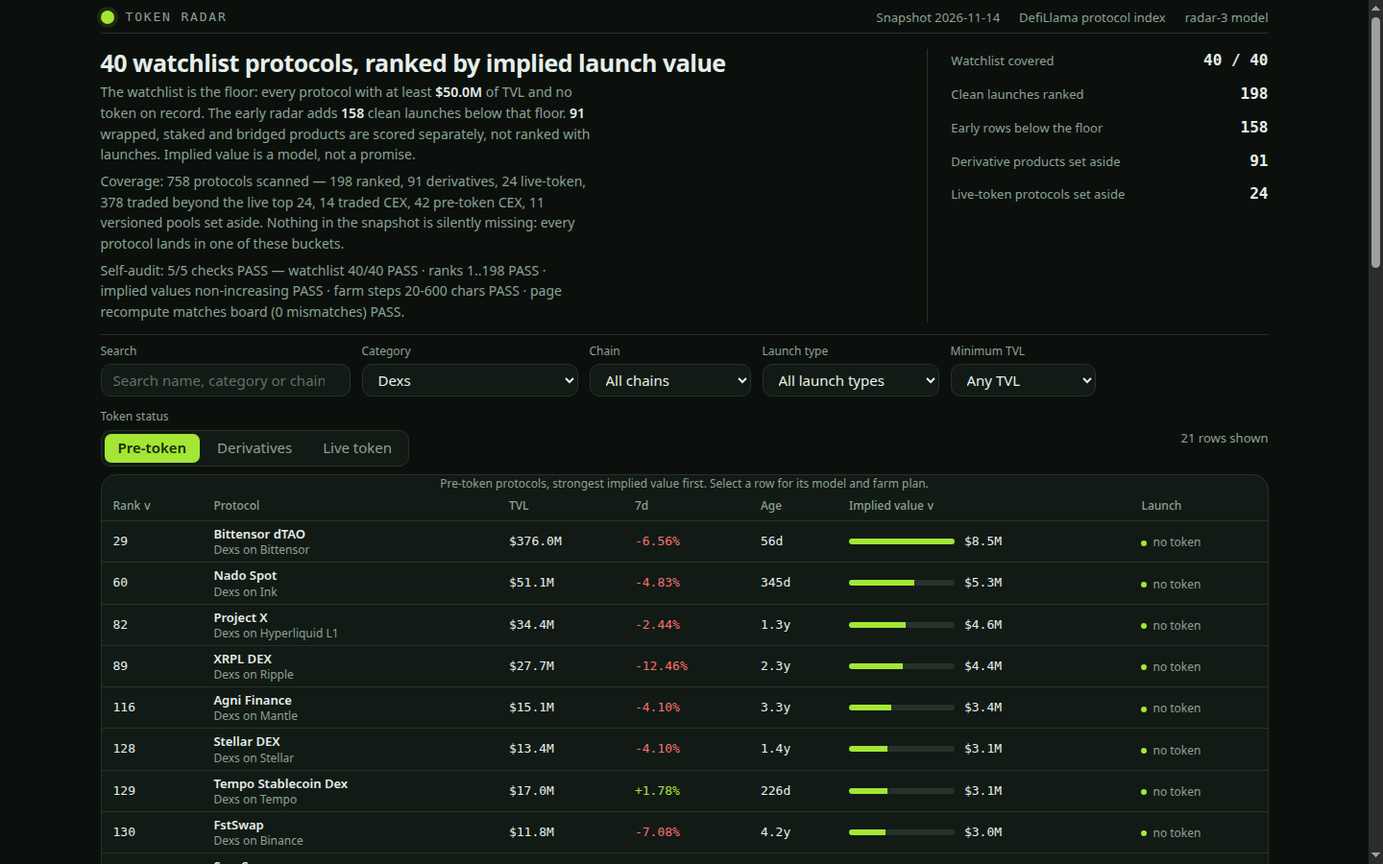
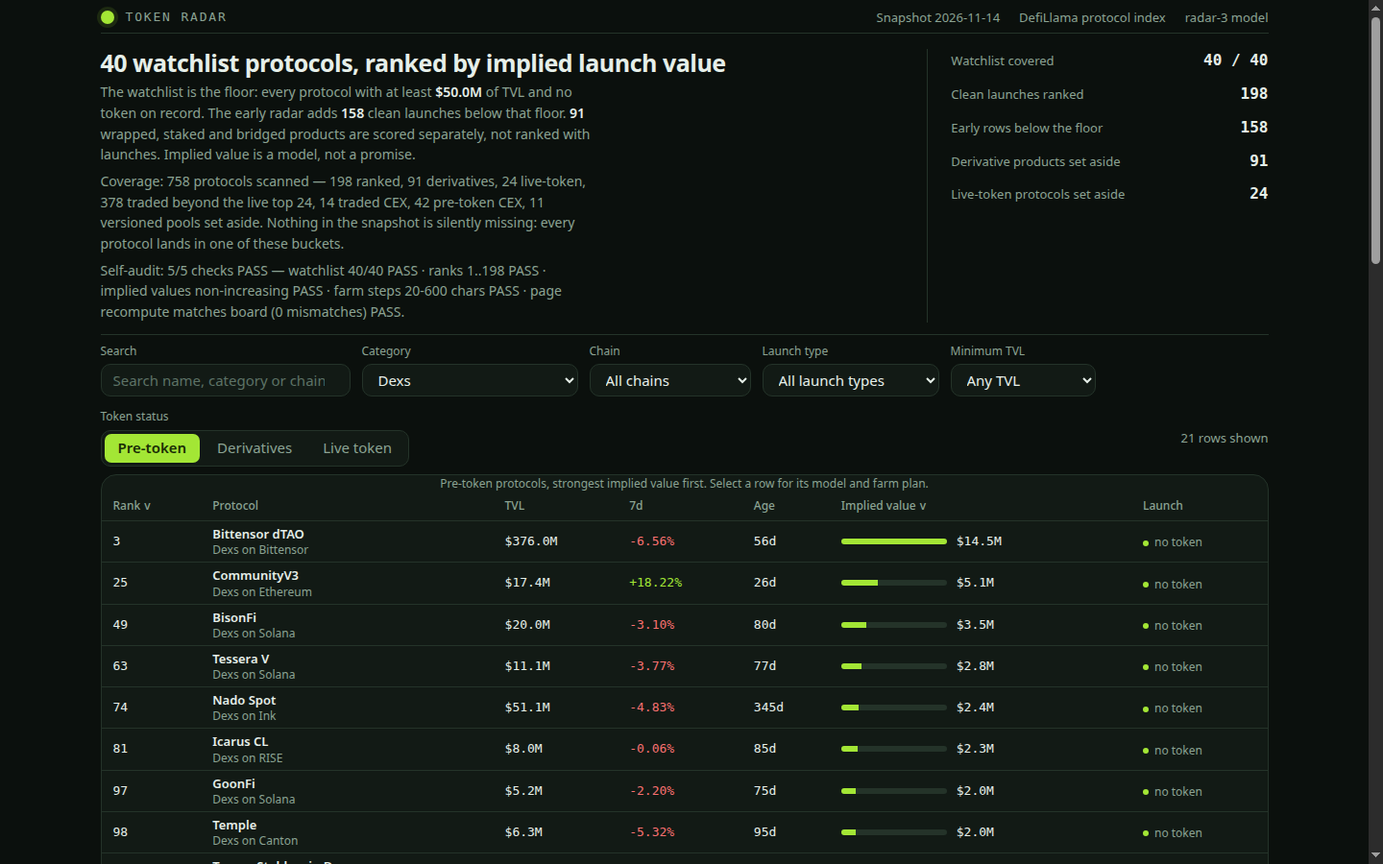
Round 4 fix: hazard-style launch odds (12-month forward hazard)
Replace the cumulative cohort share with the 12-month forward hazard
(F(age+365d)-F(age))/(1-F(age)) read off the same logistic cohort curve,
so token odds now FALL with age (1y 0.19, 2y 0.14, 4y 0.09) instead of
rising (0.44/0.55/0.66). Launch-value OLS unchanged. Odds validated
held-out by 5-fold Brier 0.2284 vs 0.25 baseline (a time split by listing
date is not a fair test for an age-only model). Dashboard panels, formula,
detail drawer and sandbox updated; screenshots re-captured.

diff --git a/dashboard/app.js b/dashboard/app.js
@@ -7,11 +7,12 @@
 // renders these same numbers from data.js, and this comment states them so they read in
 // source as well as on screen:
 //   launch  = 10 ^ (4.330 + 0.432 x log10(TVL) - 0.227 x log10(age) + 0.018 x extra chains)
-//   odds    = 1 / (1 + exp(-(-3.936 + 1.447 x log10(age))))  — 1y 0.44, 2y 0.55, 4y 0.66
+//   odds    = (F(age + 365d) - F(age)) / (1 - F(age)), F = 1 / (1 + exp(-(-3.936 + 1.447 x log10(age))))
+//             — the 12-month forward hazard: 1y 0.19, 2y 0.14, 4y 0.09 (falls with age)
 //   implied = round(launch x odds x derivative); derivative discount 0.85, unknown age 365d
 //   Fit on 95 traded-token protocols: R² 0.18, leave-one-out error x4.54,
 //   walk-forward error x10.27 (train 66 oldest listings, test 29 newest).
-//   Odds fitted on 645 protocols, 327 with a token.
+//   Odds fitted on 645 protocols, 327 with a token; 5-fold Brier 0.23 vs 0.25 baseline.
 //   Seven-day growth was fitted (coefficient about -0.01, not significant) and constrained
 //   to zero: the model neither rewards nor punishes a single week's move.
 (function () {
@@ -61,14 +62,25 @@
   // snapshot figures and checks the number board.json carries, so the page's code and the
   // board's data are visibly the same arithmetic. The sandbox runs this with moved constants.
   // The fitted launch value is 10^(b0 + b1*log10(TVL) + b3*log10(age) + b4*extra chains),
-  // times the token odds from the fitted logistic curve on log10(age); growth was fitted
-  // and dropped (its effect is indistinguishable from zero), so it contributes nothing.
+  // times the 12-month forward hazard read off the fitted cohort curve: (F(age + 365d) -
+  // F(age)) / (1 - F(age)), where F is the logistic share of protocols of that age that
+  // record a token. Growth was fitted and dropped (its effect is indistinguishable from
+  // zero), so it contributes nothing.
+  function cohortShare(age, intercept, slope) {
+    return 1 / (1 + Math.exp(-(intercept + slope * Math.log10(Math.max(1, age)))));
+  }
+  function hazardOf(age, intercept, slope) {
+    var a = Math.max(1, age);
+    var fNow = cohortShare(a, intercept, slope);
+    var fNext = cohortShare(a + 365, intercept, slope);
+    return (fNext - fNow) / (1 - fNow);
+  }
   function impliedOf(row, fit) {
     var age = row.age_days === null || row.age_days === undefined ? fit.unknown_age_days : row.age_days;
     var ageFit = Math.min(Math.max(age, 1), 3650);
     var extra = Math.min(Math.max((row.chains || []).length - 1, 0), 10);
     var launch = Math.pow(10, fit.launch_intercept + fit.launch_tvl * Math.log10(row.tvl_usd) + fit.launch_age * Math.log10(ageFit) + fit.launch_chains * extra);
-    var odds = 1 / (1 + Math.exp(-(fit.odds_intercept + fit.odds_age * Math.log10(ageFit))));
+    var odds = hazardOf(ageFit, fit.odds_intercept, fit.odds_age);
     var derivMult = row.launch_type === 'derivative' ? fit.derivative_discount : 1;
     return Math.max(1, Math.round(launch * odds * derivMult));
   }
@@ -76,7 +88,7 @@
   function oddsOf(row, fit) {
     var age = row.age_days === null || row.age_days === undefined ? fit.unknown_age_days : row.age_days;
     var ageFit = Math.min(Math.max(age, 1), 3650);
-    return 1 / (1 + Math.exp(-(fit.odds_intercept + fit.odds_age * Math.log10(ageFit))));
+    return hazardOf(ageFit, fit.odds_intercept, fit.odds_age);
   }
 
   function launchOf(row, fit) {
@@ -387,13 +399,13 @@
     var f = DATA.fit;
     return el('section', { class: 'panel section' },
       el('h2', { text: 'How implied value is computed' }),
-      el('p', { class: 'note', text: 'Every row is scored by one model FIT to this snapshot, not by hand-picked constants: the launch value is an OLS fit of log10(market cap) on the snapshot\u2019s traded-token protocols, and the token odds are a logistic fit of \u201Crecords a token\u201D on age. No protocol name is special-cased, and no row is hand-picked; live-token protocols are shown at market value, never ranked.' }),
+      el('p', { class: 'note', text: 'Every row is scored by one model FIT to this snapshot, not by hand-picked constants: the launch value is an OLS fit of log10(market cap) on the snapshot\u2019s traded-token protocols, and the token odds are the 12-month forward hazard read off a logistic fit of \u201Crecords a token\u201D on age. No protocol name is special-cased, and no row is hand-picked; live-token protocols are shown at market value, never ranked.' }),
       el('div', { class: 'formula' },
         el('b', { text: 'launch = 10 ^ ( ' }),
         f.launch_intercept.toFixed(3) + ' + ' + f.launch_tvl.toFixed(3) + ' x log10(TVL) + ' + f.launch_age.toFixed(3) + ' x log10(age) + ' + f.launch_chains.toFixed(3) + ' x extra chains',
         el('b', { text: ' )' }),
         el('br'),
-        el('b', { text: 'odds = 1 / (1 + exp(-( ' }),
+        el('b', { text: 'odds = ( F(age + 365d) - F(age) ) / ( 1 - F(age) ),  F(age) = 1 / (1 + exp(-( ' }),
         f.odds_intercept.toFixed(3) + ' + ' + f.odds_age.toFixed(3) + ' x log10(age)',
         el('b', { text: ' )))' }),
         el('br'),
@@ -402,8 +414,8 @@
       el('h2', { text: 'Model validation — as fitted, not as proof' }),
       el('p', { class: 'note', text: 'Launch fit: ' + f.fit_n + ' traded-token protocols carry the label (a positive market cap, a listing date and a reported seven-day growth figure; 15 zero-value tokens and the rest without a usable label are excluded). R\u00B2 = ' + f.fit_r2 + ' on the log10 scale. Leave-one-out error x' + f.fit_loo_factor + ' (one refit per protocol, tested on the held-out row). Walk-forward error x' + f.fit_wf_factor + ' (fit on the oldest ' + f.fit_wf_train + ' by listing date, tested on the newest ' + f.fit_wf_test + '). TVL is the only signal with real bite; the fit is shown because it is fitted, not because it is precise.' }),
       el('p', { class: 'note', text: 'Seven-day growth was fitted and dropped: its coefficient is indistinguishable from zero (t = -1.3) and flips sign across sample splits, so the model sets it to zero instead of letting sampling noise punish growing protocols. Growth is still shown for every row, and it still drives the farm plan\u2019s stop rule.' }),
-      el('p', { class: 'note', text: 'Token odds are a cohort rate, not a promise: the share of protocols of that age that record a token, fitted by logistic regression on ' + f.odds_n + ' protocols with a known listing date (' + f.odds_with_token + ' of them record a token). Odds are ' + Math.round(f.odds_1y * 100) + '% at one year, ' + Math.round(f.odds_2y * 100) + '% at two years and ' + Math.round(f.odds_4y * 100) + '% at four years: older cohorts list more often, so an old protocol with no token sits in a cohort where listing is common.' }),
-      el('p', { class: 'note', text: 'Age pulls both ways: older listed tokens are worth less at the same TVL (the fitted age coefficient is ' + f.launch_age.toFixed(3) + '), but older cohorts list tokens more often. The net effect is shown per row in its detail view. A wrapped, staked or bridged product is flagged as a derivative and discounted to ' + f.derivative_discount + ', because its launch is its underlying\u2019s, not its own; derivatives are scored the same way and listed separately, never ranked with clean launches. Age is the time since first listing; an unlisted age uses ' + f.unknown_age_days + ' days.' }),
+      el('p', { class: 'note', text: 'Token odds are a 12-month forward hazard, not a promise: among protocols still tokenless at a given age, the share the fitted cohort curve says lists within the next 12 months. The curve is a logistic fit of \u201Crecords a token\u201D on age over ' + f.odds_n + ' protocols with a known listing date (' + f.odds_with_token + ' of them record a token). Odds are ' + Math.round(f.odds_1y * 100) + '% at one year, ' + Math.round(f.odds_2y * 100) + '% at two years and ' + Math.round(f.odds_4y * 100) + '% at four years: the longer a protocol sits tokenless, the less likely it is to list soon. Held-out check: 5-fold Brier ' + f.odds_brier_kfold + ' against a ' + f.odds_brier_baseline + ' baseline (predicting the overall token rate) \u2014 a real but modest signal.' }),
+      el('p', { class: 'note', text: 'Age pulls the same way twice: older listed tokens are worth less at the same TVL (the fitted age coefficient is ' + f.launch_age.toFixed(3) + '), and older tokenless protocols are less likely to list soon (the hazard falls with age). The net effect is shown per row in its detail view. A wrapped, staked or bridged product is flagged as a derivative and discounted to ' + f.derivative_discount + ', because its launch is its underlying\u2019s, not its own; derivatives are scored the same way and listed separately, never ranked with clean launches. Age is the time since first listing; an unlisted age uses ' + f.unknown_age_days + ' days.' }),
       el('p', { class: 'note', text: 'The snapshot carries no team, funding or points-program data, so the model cannot score them. Size still leads the top of the board, so the largest vaults and curators head it; the category filter is how a reader compares within one kind of protocol.' })
     );
   }
@@ -432,7 +444,7 @@
     slider('launch_tvl', 'Size elasticity (log10 TVL coefficient)', 0.2, 0.8, 0.01, function (v) { return v.toFixed(2); });
     slider('launch_age', 'Age effect on launch value', -0.6, 0.2, 0.01, function (v) { return v.toFixed(2); });
     slider('launch_chains', 'Chain bonus (per extra chain, log10)', 0, 0.08, 0.005, function (v) { return v.toFixed(3); });
-    slider('odds_age', 'Token-odds slope (log10 age coefficient)', 0, 3, 0.05, function (v) { return v.toFixed(2); });
+    slider('odds_age', 'Token-odds slope (log10 age coefficient)', 0.5, 3, 0.05, function (v) { return v.toFixed(2); });
     function refresh() {
       var fit = {
         launch_intercept: f.launch_intercept, launch_tvl: current.launch_tvl,
@@ -501,7 +513,7 @@
         el('div', null, el('span', { text: 'Seven-day growth' }), el('b', { class: 'num', text: fmtPct(row.change_7d) })),
         el('div', null, el('span', { text: 'Growth multiplier (fitted: no effect)' }), el('b', { class: 'num', text: fmtMult(row.growth_multiplier) })),
         el('div', null, el('span', { text: 'Age with no token' }), el('b', { class: 'num', text: fmtAge(row.age_days) })),
-        el('div', null, el('span', { text: 'Token odds (cohort rate)' }), el('b', { class: 'num', text: Math.round(row.odds * 100) + '%' })),
+        el('div', null, el('span', { text: 'Token odds (12-month hazard)' }), el('b', { class: 'num', text: Math.round(row.odds * 100) + '%' })),
         el('div', null, el('span', { text: 'Chain multiplier' }), el('b', { class: 'num', text: fmtMult(row.chain_multiplier) })),
         el('div', null, el('span', { text: 'Derivative multiplier' }), el('b', { class: 'num', text: fmtMult(row.derivative_multiplier) })),
         el('div', null, el('span', { text: 'Implied value' }), el('b', { class: 'num', text: fmtUsd(row.implied_value_usd) }))

diff --git a/lib/model.ts b/lib/model.ts
@@ -17,14 +17,15 @@
 //     printed in the dashboard, as fitted, not as proof of precision: TVL is the only
 //     signal with real bite (R-squared 0.18), and the page says so.
 //
-//   token odds   = 1 / (1 + exp(-(c0 + c1 x log10(age))))
-//     A logistic fit of "records a token" on log10(age) over every protocol with a known
-//     listing date. It is a COHORT rate, not a promise: the share of protocols of that age
-//     that record a token (44% at one year, 55% at two, 66% at four). Older cohorts list
-//     more often, so an old protocol with no token sits in a cohort where listing is
-//     common. Age pulls both ways: older listed tokens are worth less at the same TVL
-//     (b3 is negative), but older cohorts list tokens more often. The net effect is
-//     shown per row.
+//   token odds   = (F(age + 365d) - F(age)) / (1 - F(age)),  F(age) = 1 / (1 + exp(-(c0 + c1 x log10(age))))
+//     A 12-month forward HAZARD, not a cohort share: among protocols still tokenless at
+//     a given age, the share the fitted cohort curve says lists within the next 12 months.
+//     The hazard FALLS with age (19% at one year, 14% at two, 9% at four): the longer a
+//     protocol sits tokenless, the less likely it is to list soon. Age pulls the same
+//     way twice: older listed tokens are worth less at the same TVL (b3 is negative),
+//     and older tokenless protocols are less likely to list soon. The net effect is
+//     shown per row. A single snapshot cannot show future listings, so the hazard is
+//     the cohort curve read forward, under stationary listing propensity.
 //
 //   implied      = max(1, round(launch value x token odds x derivative discount))
 //
@@ -74,7 +75,7 @@ export interface FittedModel {
   launch_tvl: number;
   launch_age: number;
   launch_chains: number;
-  /** logit P(records a token) = odds_intercept + odds_age x log10(age). */
+  /** The cohort curve underneath the hazard: F(age) = 1 / (1 + exp(-(odds_intercept + odds_age x log10(age)))), the fitted share of protocols of that age that record a token. */
   odds_intercept: number;
   odds_age: number;
   derivative_discount: number;
@@ -92,10 +93,13 @@ export interface FittedModel {
   /** Protocols with a known listing date the odds fit used, and how many of them record a token. */
   odds_n: number;
   odds_with_token: number;
-  /** Token odds at one, two and four years, from the fitted logistic curve. */
+  /** Token odds at one, two and four years: the 12-month forward hazard (F(age + 365d) - F(age)) / (1 - F(age)). Monotone decreasing in age. */
   odds_1y: number;
   odds_2y: number;
   odds_4y: number;
+  /** Held-out validation of the odds fit: mean 5-fold Brier score of the cohort curve (deterministic folds, row index mod 5), and the baseline Brier of predicting the overall token rate. */
+  odds_brier_kfold: number;
+  odds_brier_baseline: number;
 }
 
 /** The model's version label: the dashboard names it and the rules quote it. */
@@ -347,10 +351,51 @@ function launchFeatures(protocol: SnapshotProtocol, asOf: string, unknownAgeDays
   return [1, Math.log10(protocol.tvl_usd), Math.log10(ageForFit(ageDays(asOf, protocol.listed_at), unknownAgeDays)), extraChains(protocol)];
 }
 
-/** The token odds for an age in days, from a fitted logistic curve. */
-function tokenOdds(age: number, oddsIntercept: number, oddsAge: number): number {
+/** The fitted cohort share at an age in days: the share of protocols of that age that record a token. */
+function cohortShare(age: number, oddsIntercept: number, oddsAge: number): number {
   const z = oddsIntercept + oddsAge * Math.log10(Math.max(1, age));
   return 1 / (1 + Math.exp(-z));
+}
+
+/**
+ * The token odds for an age in days: the 12-month forward hazard, (F(age + 365d) - F(age)) / (1 - F(age)).
+ * Among protocols still tokenless at this age, the share the fitted cohort curve says lists
+ * within the next 12 months. It falls with age because the cohort curve flattens: each extra
+ * year adds fewer newly-tokened protocols than the year before, while the tokenless pool it
+ * divides by shrinks more slowly. A single snapshot cannot show future listings, so the
+ * hazard is the cohort curve read forward, under stationary listing propensity.
+ */
+function tokenOdds(age: number, oddsIntercept: number, oddsAge: number): number {
+  const a = Math.max(1, age);
+  const fNow = cohortShare(a, oddsIntercept, oddsAge);
+  const fNext = cohortShare(a + 365, oddsIntercept, oddsAge);
+  return (fNext - fNow) / (1 - fNow);
+}
+
+/** Logistic fit of a binary outcome on [1, log10(age)] by Newton iterations from zero (deterministic). */
+function fitLogistic(xs: number[][], ys: number[]): number[] {
+  let w = [0, 0];
+  for (let iter = 0; iter < 100; iter++) {
+    const grad = [0, 0];
+    const hess = [
+      [0, 0],
+      [0, 0],
+    ];
+    for (let i = 0; i < xs.length; i++) {
+      const z = xs[i]![0]! * w[0]! + xs[i]![1]! * w[1]!;
+      const pr = 1 / (1 + Math.exp(-z));
+      const d = ys[i]! - pr;
+      const v = pr * (1 - pr);
+      for (let a = 0; a < 2; a++) {
+        grad[a]! += xs[i]![a]! * d;
+        for (let b = 0; b < 2; b++) hess[a]![b]! += xs[i]![a]! * xs[i]![b]! * v;
+      }
+    }
+    const step = solveLinear(hess, grad);
+    w = [w[0]! + step[0]!, w[1]! + step[1]!];
+    if (Math.max(Math.abs(step[0]!), Math.abs(step[1]!)) < 1e-12) break;
+  }
+  return w;
 }
 
 /**
@@ -364,11 +409,15 @@ function tokenOdds(age: number, oddsIntercept: number, oddsAge: number): number 
  * punish growing protocols.
  *
  * Token odds: a logistic fit of "records a token" on log10(age) over every protocol with
- * a known listing date, by Newton iterations from zero (deterministic).
+ * a known listing date, by Newton iterations from zero (deterministic). The odds factor
+ * itself is the 12-month forward hazard read off that curve, not the cohort share.
  *
  * Validation is held out and honest: R-squared on the log10 scale, a walk-forward split
  * (fit on the oldest 70% by listing date, tested on the newest 30%) and leave-one-out
- * refits, each reported as an error factor (10 to the mean absolute log10 error).
+ * refits, each reported as an error factor (10 to the mean absolute log10 error). The
+ * odds fit is validated by 5-fold Brier score (deterministic folds): a time split by
+ * listing date is not a fair held-out test for an age-only model, because listing date
+ * and age are the same axis — the train set would hold no young protocols at all.
  */
 export function fitModel(snapshot: Snapshot): FittedModel {
   const unknownAgeDays = FIT_DEFAULTS.unknown_age_days;
@@ -431,27 +480,31 @@ export function fitModel(snapshot: Snapshot): FittedModel {
   const oddsRows = snapshot.protocols.filter((p) => p.listed_at !== null);
   const oddsX = oddsRows.map((p) => [1, Math.log10(Math.max(1, ageDays(snapshot.as_of, p.listed_at) ?? unknownAgeDays))]);
   const oddsY = oddsRows.map((p) => (isPreToken(p) ? 0 : 1));
-  let w = [0, 0];
-  for (let iter = 0; iter < 100; iter++) {
-    const grad = [0, 0];
-    const hess = [
-      [0, 0],
-      [0, 0],
-    ];
+  const w = fitLogistic(oddsX, oddsY);
+  // Held-out validation of the odds fit: 5-fold Brier score, deterministic folds
+  // (fold = row index mod 5 in snapshot order). A time split by listing date would
+  // truncate the age range the train fit sees, so it is not a fair test here.
+  const oddsRate = oddsY.reduce((s, v) => s + v, 0) / oddsY.length;
+  let oddsBrier = 0;
+  for (let fold = 0; fold < 5; fold++) {
+    const trainX: number[][] = [];
+    const trainY: number[] = [];
+    const testIdx: number[] = [];
     for (let i = 0; i < oddsRows.length; i++) {
-      const z = oddsX[i]![0]! * w[0]! + oddsX[i]![1]! * w[1]!;
-      const pr = 1 / (1 + Math.exp(-z));
-      const d = oddsY[i]! - pr;
-      const v = pr * (1 - pr);
-      for (let a = 0; a < 2; a++) {
-        grad[a]! += oddsX[i]![a]! * d;
-        for (let b = 0; b < 2; b++) hess[a]![b]! += oddsX[i]![a]! * oddsX[i]![b]! * v;
+      if (i % 5 === fold) testIdx.push(i);
+      else {
+        trainX.push(oddsX[i]!);
+        trainY.push(oddsY[i]!);
       }
     }
-    const step = solveLinear(hess, grad);
-    w = [w[0]! + step[0]!, w[1]! + step[1]!];
-    if (Math.max(Math.abs(step[0]!), Math.abs(step[1]!)) < 1e-12) break;
+    const wf = fitLogistic(trainX, trainY);
+    for (const i of testIdx) {
+      const pr = 1 / (1 + Math.exp(-(wf[0]! + wf[1]! * oddsX[i]![1]!)));
+      oddsBrier += (pr - oddsY[i]!) ** 2;
+    }
   }
+  oddsBrier /= oddsRows.length;
+  const oddsBrierBaseline = oddsY.reduce((s, v) => s + (oddsRate - v) ** 2, 0) / oddsY.length;
   return {
     launch_intercept: beta[0]!,
     launch_tvl: beta[1]!,
@@ -472,6 +525,8 @@ export function fitModel(snapshot: Snapshot): FittedModel {
     odds_1y: round4(tokenOdds(365, w[0]!, w[1]!)),
     odds_2y: round4(tokenOdds(730, w[0]!, w[1]!)),
     odds_4y: round4(tokenOdds(1460, w[0]!, w[1]!)),
+    odds_brier_kfold: round4(oddsBrier),
+    odds_brier_baseline: round4(oddsBrierBaseline),
   };
 }
 
@@ -905,7 +960,7 @@ function whySentence(
   const category = row.category ?? 'Other';
   if (ctx.dominant === 'age' && row.age_days !== null) {
     const oddsPct = Math.round(row.model.odds * 100);
-    return `Age carries this rank: ${fmtAgeShort(row.age_days)} with no token puts this protocol in a cohort where ${oddsPct}% record a token, on ${tvl} of TVL.`;
+    return `Age carries this rank: ${fmtAgeShort(row.age_days)} with no token, and the fitted 12-month hazard is ${oddsPct}% — the share of protocols still tokenless at this age that list within the next year, on ${tvl} of TVL.`;
   }
   if (ctx.dominant === 'chain' && row.chains.length > 1) {
     return `Breadth carries this rank: ${row.chains.length} chains lift the value by x${row.model.chain_multiplier.toFixed(2)}, on ${tvl} of TVL.`;

diff --git a/main.ts b/main.ts
@@ -90,6 +90,6 @@ writeFileSync(join(out, 'dossier.json'), buildDossier(out, { text_max_bytes: TEX
 
 process.stdout.write(
   `token radar: ${snapshot.protocols.length} protocols in, ${snapshot.watchlist.length} on the watchlist, ${board.length} rows scored (${radar.early_size} early, ${radar.live_size} live and ${radar.derivative_size} derivatives set aside)\n` +
-    `token radar: fitted launch log10(mcap) = ${fit.launch_intercept.toFixed(4)} + ${fit.launch_tvl.toFixed(4)} x log10(TVL) + ${fit.launch_age.toFixed(4)} x log10(age) + ${fit.launch_chains.toFixed(4)} x extra chains on ${fit.fit_n} traded tokens (R2 ${fit.fit_r2}, LOO x${fit.fit_loo_factor}, walk-forward x${fit.fit_wf_factor}); token odds logistic on ${fit.odds_n} protocols (1y ${fit.odds_1y}, 2y ${fit.odds_2y}, 4y ${fit.odds_4y})\n` +
+    `token radar: fitted launch log10(mcap) = ${fit.launch_intercept.toFixed(4)} + ${fit.launch_tvl.toFixed(4)} x log10(TVL) + ${fit.launch_age.toFixed(4)} x log10(age) + ${fit.launch_chains.toFixed(4)} x extra chains on ${fit.fit_n} traded tokens (R2 ${fit.fit_r2}, LOO x${fit.fit_loo_factor}, walk-forward x${fit.fit_wf_factor}); token odds 12-month hazard from a logistic fit on ${fit.odds_n} protocols (1y ${fit.odds_1y}, 2y ${fit.odds_2y}, 4y ${fit.odds_4y}; 5-fold Brier ${fit.odds_brier_kfold} vs ${fit.odds_brier_baseline} baseline)\n` +
     `token radar: wrote ${join(out, 'board.json')}, ${join(out, 'data.js')}, ${join(out, 'dashboard')} (${dashboardFiles.length} files), ${join(out, 'screenshots')} (${shots.length} images) and ${join(out, 'dossier.json')}\n`,
 );

diff --git a/README.md b/README.md
@@ -4,7 +4,7 @@
 [![rank](https://make.fun/badge/token-radar-01/muhadilaga/token-radar/rank.svg)](https://make.fun/bounty/token-radar-01/leaderboard?utm_source=github&utm_medium=readme&utm_campaign=token-radar-01)
 [![reward](https://make.fun/badge/token-radar-01/muhadilaga/token-radar/reward.svg)](https://make.fun/bounty/token-radar-01?utm_source=github&utm_medium=readme&utm_campaign=token-radar-01)
 
-Token Radar ranks 198 clean pre-token DeFi launches by implied launch value, scored from a sealed DefiLlama snapshot (14 Nov 2026) with the radar-3 model: a launch value fitted by OLS on the snapshot's traded-token protocols (log market cap on log TVL, log age and chain count), times token odds from a logistic fit on age, with held-out validation numbers printed in the dashboard. Seven-day growth was fitted and dropped — its effect is indistinguishable from zero. Another 91 wrapped, staked and bridged products are scored the same way and listed separately, never ranked with launches. Every protocol gets a seven-step farm plan with costs and times. The dashboard is a static, offline page: a sortable and filterable board, a per-protocol detail view with the model's own factors, live-token and derivative views, a coverage strip and self-audit, and a model sandbox that re-ranks the board under different constants.
+Token Radar ranks 198 clean pre-token DeFi launches by implied launch value, scored from a sealed DefiLlama snapshot (14 Nov 2026) with the radar-3 model: a launch value fitted by OLS on the snapshot's traded-token protocols (log market cap on log TVL, log age and chain count), times a 12-month launch hazard read off a logistic fit on age, with held-out validation numbers printed in the dashboard. Seven-day growth was fitted and dropped — its effect is indistinguishable from zero. Another 91 wrapped, staked and bridged products are scored the same way and listed separately, never ranked with launches. Every protocol gets a seven-step farm plan with costs and times. The dashboard is a static, offline page: a sortable and filterable board, a per-protocol detail view with the model's own factors, live-token and derivative views, a coverage strip and self-audit, and a model sandbox that re-ranks the board under different constants.
 
 ## Run it
 
@@ -20,13 +20,13 @@ Node 22.18 or later, standard library only, nothing to install. The run writes `
 
 `launch = 10 ^ (4.330 + 0.432 x log10(TVL) - 0.227 x log10(age) + 0.018 x extra chains)`, fitted by OLS on 95 traded-token protocols (R² 0.18, leave-one-out error x4.54, walk-forward error x10.27)
 
-`odds = 1 / (1 + exp(-(-3.936 + 1.447 x log10(age))))`, fitted by logistic regression on 645 protocols (44% at one year, 55% at two, 66% at four)
+`odds = (F(age + 365d) - F(age)) / (1 - F(age))` with `F = 1 / (1 + exp(-(-3.936 + 1.447 x log10(age))))`, the 12-month forward hazard from a logistic fit on 645 protocols (19% at one year, 14% at two, 9% at four; 5-fold Brier 0.23 vs 0.25 baseline)
 
 `implied = round( launch x odds x derivative )`
 
 - **Size** is sub-linear: doubling locked value does not double launch value. The coefficients are fitted, not chosen — re-run `main.ts` and they are re-fitted from the snapshot.
 - **Growth** was fitted and dropped: its effect on launch value is indistinguishable from zero, so the model sets it to zero instead of letting noise punish growing protocols.
-- **Age** pulls both ways: older listed tokens are worth less at the same TVL, but older cohorts list tokens more often. The net effect is shown per row.
+- **Age** pulls the same way twice: older listed tokens are worth less at the same TVL, and older tokenless protocols are less likely to list soon (the hazard falls with age). The net effect is shown per row.
 - **Breadth** across chains adds a little; a **derivative** product (wrapped, staked, bridged, or named after an exchange) is flagged and discounted to 0.85, because its launch is its underlying's, not its own.
 
 No protocol name is special-cased. The dashboard states the fitted coefficients and the validation numbers and lets the reader move them in a sandbox; the submitted board always uses the fitted values.
